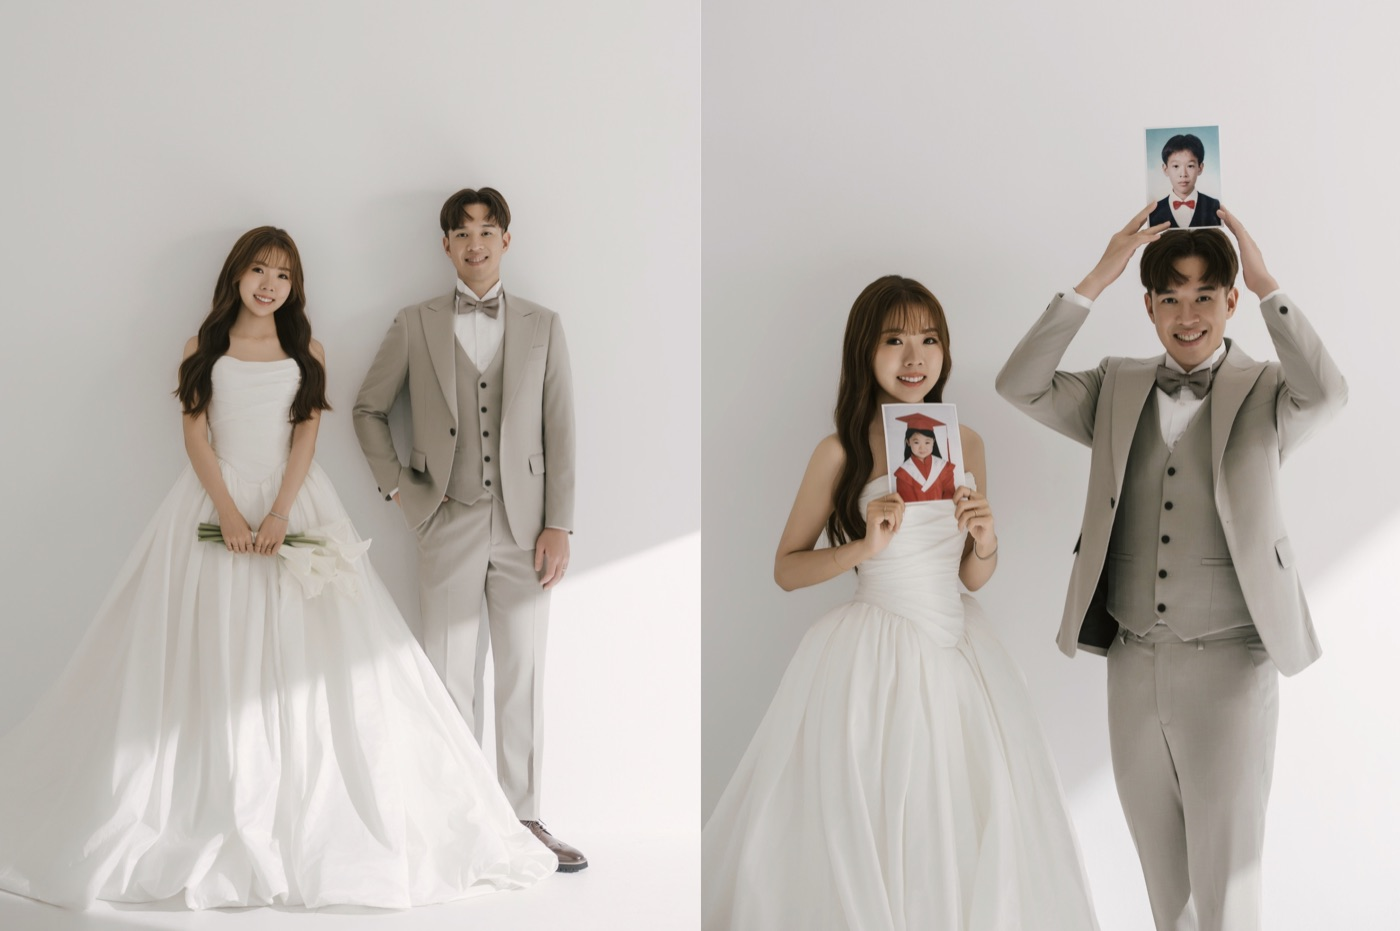
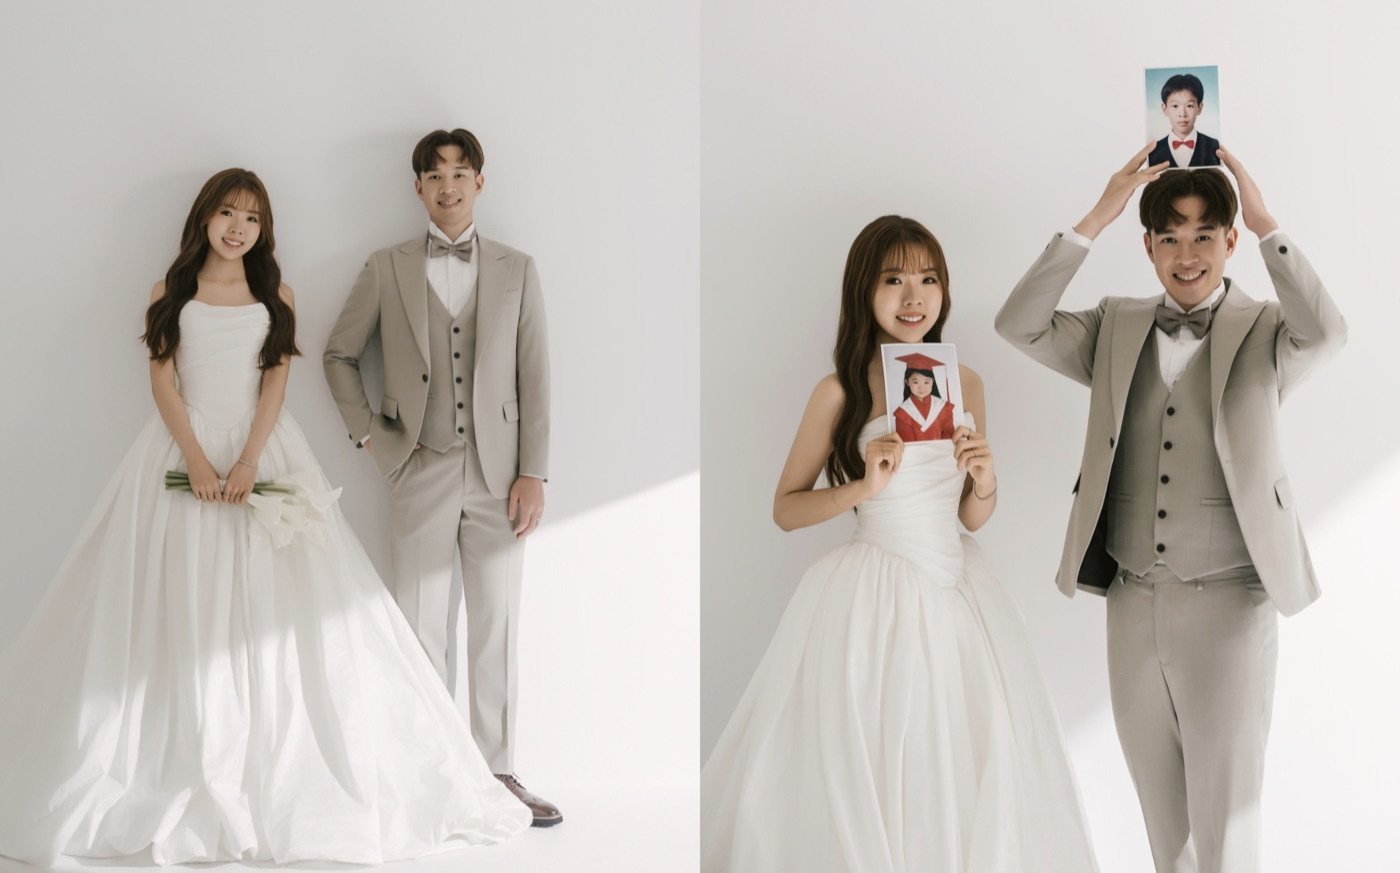
中段婚紗照換成裁切更緊的版本

diff --git a/index.html b/index.html
@@ -546,7 +546,7 @@ select{
     <p class="count__date" id="dDateEn"></p>
     <p class="quote" id="dQuote"></p>
     <figure class="introfig">
-      <img src="photos/intro.jpg" width="1400" height="931" loading="lazy" decoding="async"
+      <img src="photos/intro.jpg" width="1400" height="873" loading="lazy" decoding="async"
            alt="Darren 與 Hanne 的婚紗照">
     </figure>
   </div>
